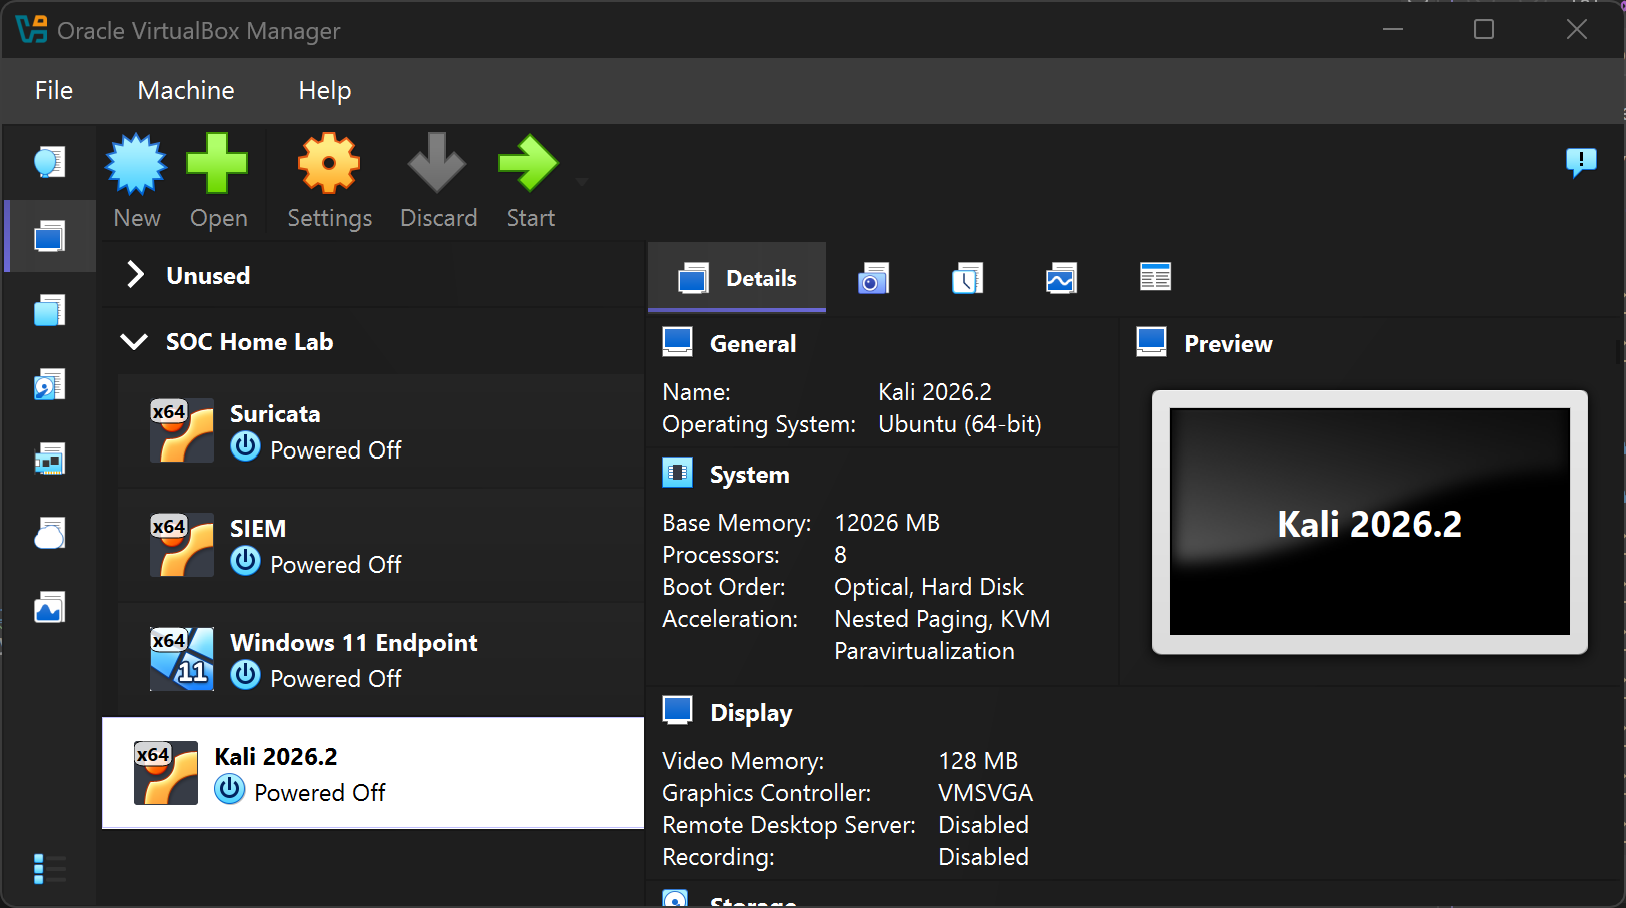
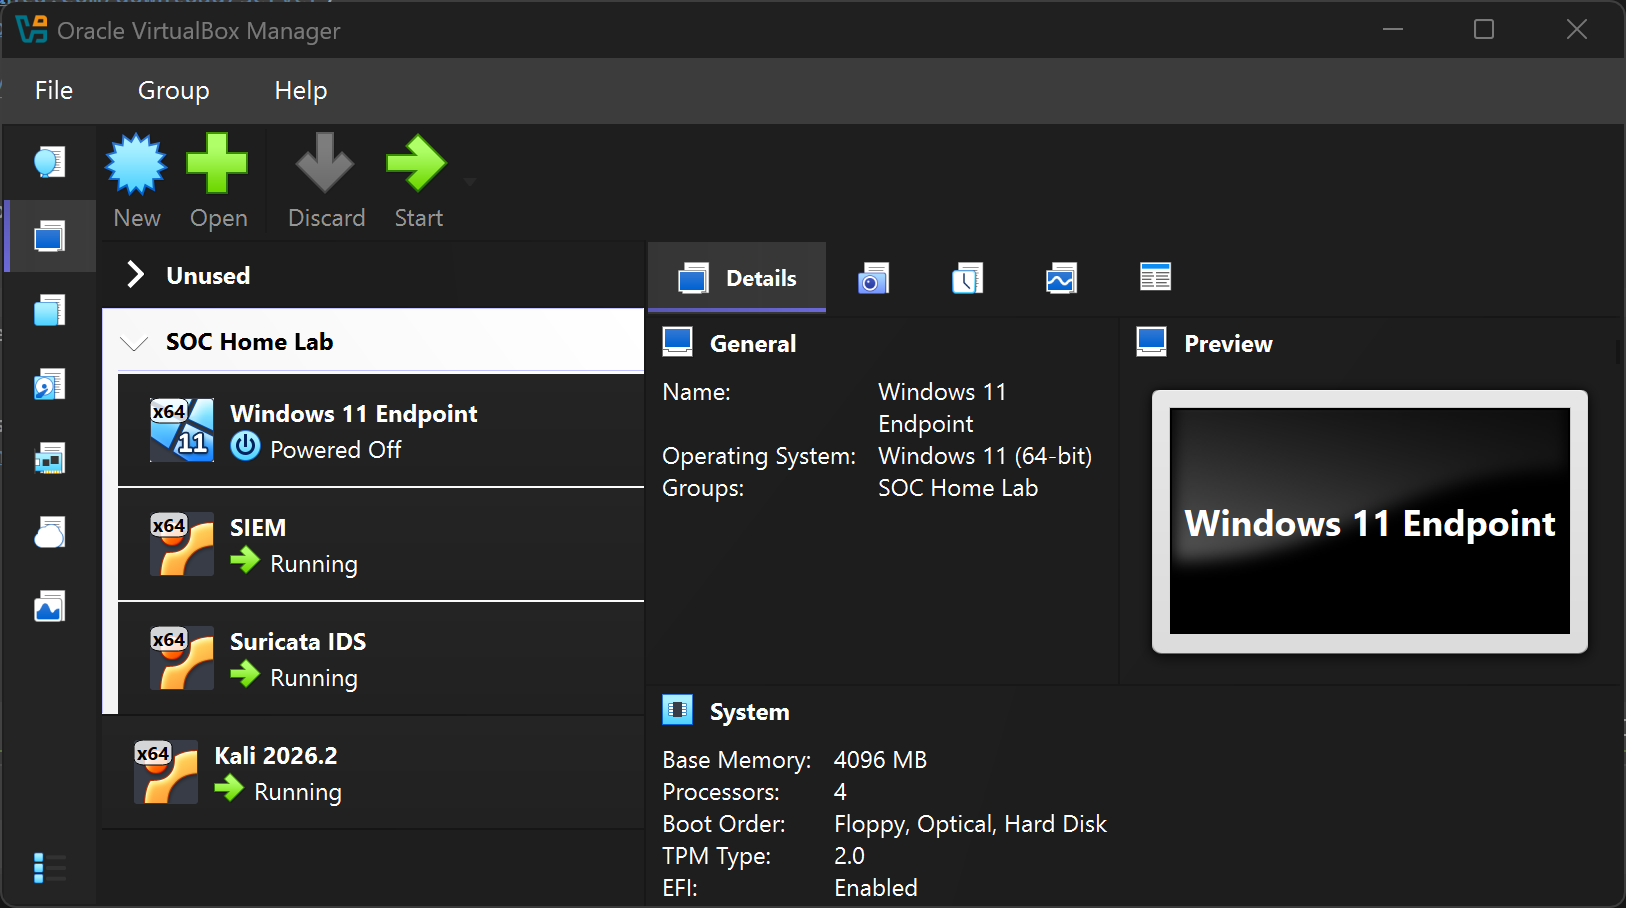
Updated

diff --git a/projects/soc-home-lab/README.md b/projects/soc-home-lab/README.md
@@ -7,24 +7,30 @@ a Windows 11 endpoint, an SOC server, and an attackbox.
 
 For the SIEM VM, it is recommended to have 8gb RAM (base memory: 8192 MB).
 
-## VM Recommended Specs
+## VM Recommended Specifications
 ### SIEM
+- OS: Ubuntu 22.04
 - CPU: 4
 - RAM: 8GB
+- Storage: 60GB
 
 ### Suricata
+- OS: Ubuntu 22.04
 - CPU: 4
 - RAM: 8GB
+- Storage: 50GB
 
-### In Progress
-- VM setup:
-![Oracle VirtualBox Manager](assets/VMs-overview.png)
+### Windows 11 Endpoint
+- OS: Windows 11
+- CPU: 
+- RAM: 
+- Storage: 
 
-- SIEM and Suricata VMs:
-![SIEM and Suricata IDS](assets/siem-suricata.png)
-- [Wazuh indexer](https://documentation.wazuh.com/current/installation-guide/wazuh-indexer/installation-assistant.html) installed:
-- Windows 11 setup still needed.
-- Suricata installation is still required. 
+### Kali (Attacker)
+- OS: 
+- CPU: 8
+- RAM: 12GB
+- Storage: 50GB
 
 ## Tools & Programs
 - [VirtualBox](https://www.virtualbox.org/)
@@ -36,4 +42,18 @@ For the SIEM VM, it is recommended to have 8gb RAM (base memory: 8192 MB).
 
 ## Notes
 - SIEM VM froze / CPU#1 lock
-- Downgraded from Ubuntu 26.04 to 22.04 for both SIEM and Suricata IDS VMs. 
+- Downgraded from Ubuntu 26.04 to 22.04 for both SIEM and Suricata IDS VMs in order to get installed tools working properly. 
+
+## In Progress
+### Completed
+- VM overview:
+![Oracle VirtualBox Manager](assets/VMs-overview.png)
+- SIEM & Suricata IDS VMs setup
+![SIEM and Suricata IDS](assets/siem-suricata.png)
+- Attackbox VM setup
+![Attackbox and SSH](assets/attackbox.png)
+
+### To-Do
+- Windows 11 VM setup
+- Wazuh Installed on SIEM VM
+- Suricata Installed on Suricata IDS VM
